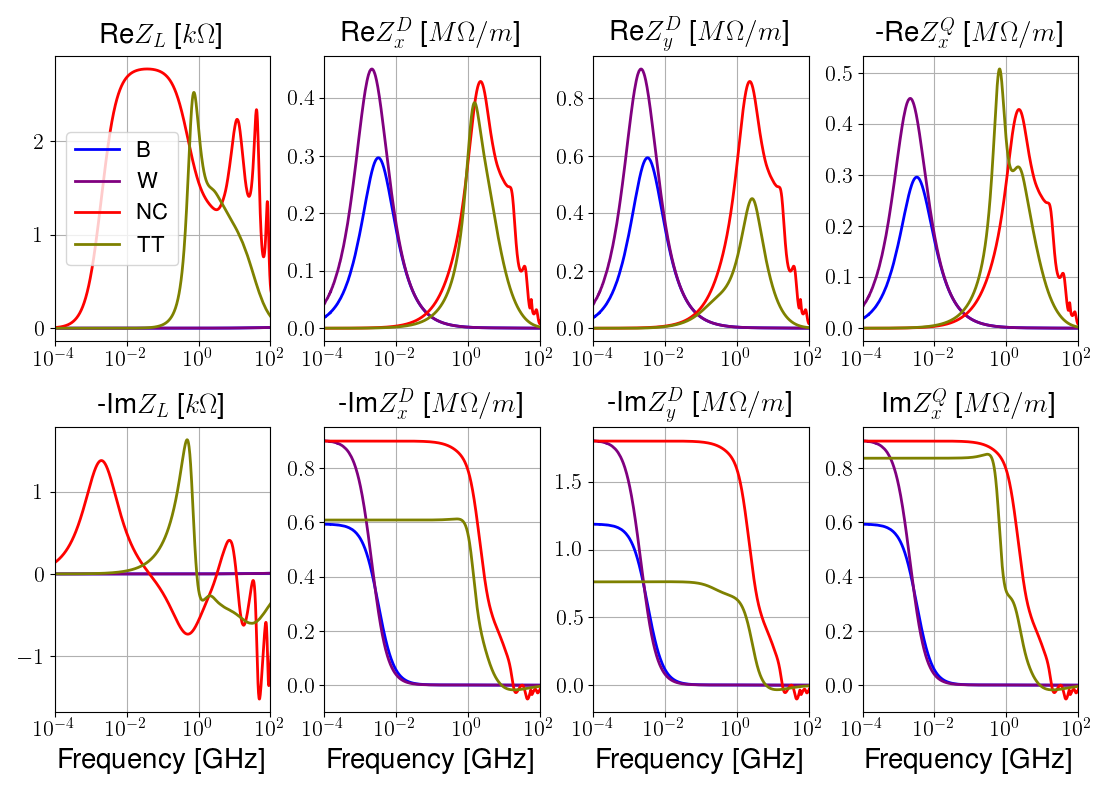
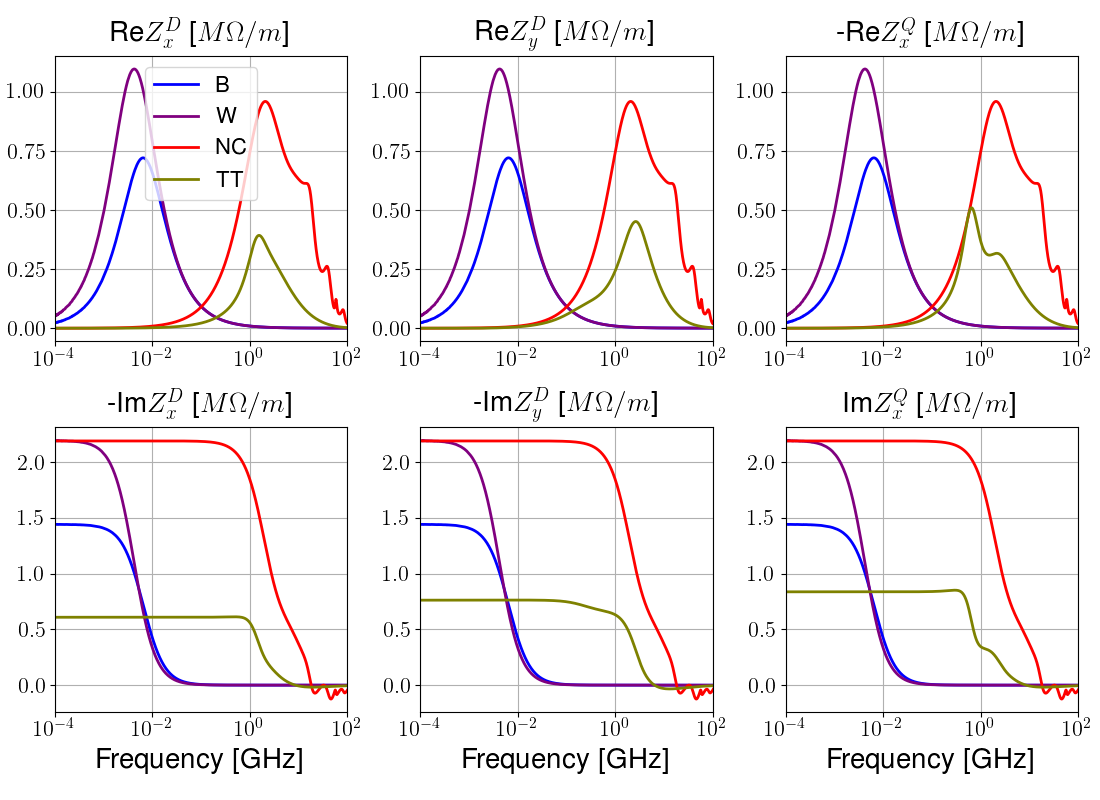
Finish kicker and fast chambers section.

diff --git a/tese.tex b/tese.tex
@@ -207,7 +207,7 @@
 
     One of the most important interaction for storage rings of light sources is the collision of particles, generally refered to as Coulomb scattering or intrabeam scattering, which is so unpredictable and chaotic that its effects on the beam resembles the properties of the emission of radiation, causing emittance and energy spread increase~\cite{Piwinski1974,Bjorken1983,Kubo2001}. Additionally, the collision process also leads to particle loss through a mechanism called Touscheck scattering, described in details by \citeonline{Piwinski1999}, where the transverse energy of oscillation is transfered to the longitudinal plane and the particles gain an energy deviation so large that they are lost. All these effects are very detrimental to new light sources, being the Touscheck lifetime their main source of particle loss, according to \citeonline{Nagaoka2014}.
 
-    The \gls{dsp} is another type of interaction among the particles, being the result of the action of the cloud of electromagnetic field existent inside the beam on individual particles. Each particle generates an electric and a magnetic field that, when averaged among all particles, result in a net potential dependent on the shape and sizes of the bunch. This potential acts like an external field on the movement of the particles, leading to tune-shifts with amplitude and possible excitation of resonances. However, for ultra-relativistic electron beams such as the ones of a light source storage ring, with energies of the order of a few \si{\giga\electronvolt}, this effect is very small and can be neglected. This happens because in this limit the non-radiating field generated by each particle is concentrated in a plane transverse to its movement and the electric and magnetic forces that act on other particles moving parallel to it cancel each other out. In Appendix~\ref{app:lorentz_cancel} a more detailed explanation for this property is given.
+    The \gls{dsp} is another type of interaction among the particles, being the result of the action of the cloud of electromagnetic field existent inside the beam on individual particles. Each particle generates an electric and a magnetic field that, when averaged among all particles, result in a net potential dependent on the shape and sizes of the bunch. This potential acts like an external field on the movement of the particles, leading to tune--shifts with amplitude and possible excitation of resonances. However, for ultra-relativistic electron beams such as the ones of a light source storage ring, with energies of the order of a few \si{\giga\electronvolt}, this effect is very small and can be neglected. This happens because in this limit the non-radiating field generated by each particle is concentrated in a plane transverse to its movement and the electric and magnetic forces that act on other particles moving parallel to it cancel each other out. In Appendix~\ref{app:lorentz_cancel} a more detailed explanation for this property is given.
 
     The \gls{csr} is another type of direct interaction between particles in a beam. The radiation emitted by the particles travels forward with the velocity of light and, due to the fact that the particles are moving on a curved trajectory when they emit light, this radiation catches up with the particles ahead of the emitting particle, as first described by \citeonline{Derbenev1995}. If the wavelength of the radiation is of the same order of or larger than the bunch length, the average of this effect is non-zero and the head of the bunch feels a net force. As this effect depends on the radiated field, in contrast to the \gls{dsp}, it does not tend to zero as the energy of the particles increases and can be very harmful, depending on the bunch length of the beam, causing energy spread increase and bunch lengthening or even microbunching~\cite{Bane2010}. However, this mechanism of interaction suffers from shielding of the vacuum chamber because, depending on the transverse separation of the walls, the low frequency radiation cannot propagate, which mitigates the effect~\cite{Murphy1997}.
 
@@ -488,7 +488,7 @@
 		\nu_x(\delta, J_x, J_y) \approx \nu_{x,0} + \xi_x \delta + A_{xx} J_x + A_{xy} J_y \\\nonumber
 		\nu_y(\delta, J_y, J_x) \approx \nu_{y,0} + \xi_y \delta + A_{yy} J_y + A_{yx} J_x
 	\end{align}
-	where $\xi_x$ and $\xi_y$ are the horizontal and vertical chromaticities, and $A_{xx}$, $A_{yy}$ and $A_{xy}=A_{yx}$ are the action dependent tune-shifts.
+	where $\xi_x$ and $\xi_y$ are the horizontal and vertical chromaticities, and $A_{xx}$, $A_{yy}$ and $A_{xy}=A_{yx}$ are the action dependent tune--shifts.
 
 \section{Longitudinal Dynamics}
 
@@ -792,9 +792,9 @@
 
     The vectors $\vect{M}_s$ and $\vect{M}_w$ are generally refered to as monopolar wakes, because they generate a transverse wake that is independent of the transverse displacement of the particles. The effect these wakes can cause on the beam are changes in the closed orbit as a function of the current of the ring which is a static effect and cannot lead to instabilities. In addition, for most practical cases these terms are zero due to symmetries in the vacuum chamber, as can be seen in appendix~\ref{app:symmetry_analysis}.
 
-    The terms of the tensor $\tensor{D}$ are refered to as dipole wakes, because they are generated due to dipole displacements of the source particle. Especifically the terms $D_{11}$ and $D_{22}$ are called horizontal and vertical dipole wakes, respectively. They are the responsible for all the transverse instabilities that leads to coupled oscillations of the bunches, emittance deterioration and even beam loss. Besides, they can also induce coherent tune-shifts, a concept that will be studied later. These terms are dangerous because they create a mechanism for the oscillations of the source particles to induce oscillations on the witness particle and this force is always resonant because both particles have approximately the same tune. The term $D_{12}=D_{21}$ is zero in most cases due to symmetries in the vacuum chamber, but even when it is non-zero it does not induce any significant effect on the beam because, as generally the fractionary part of the horizontal and vertical tunes are different, oscillations in one plane do not drive oscillations in the other.
+    The terms of the tensor $\tensor{D}$ are refered to as dipole wakes, because they are generated due to dipole displacements of the source particle. Especifically the terms $D_{11}$ and $D_{22}$ are called horizontal and vertical dipole wakes, respectively. They are the responsible for all the transverse instabilities that leads to coupled oscillations of the bunches, emittance deterioration and even beam loss. Besides, they can also induce coherent tune--shifts, a concept that will be studied later. These terms are dangerous because they create a mechanism for the oscillations of the source particles to induce oscillations on the witness particle and this force is always resonant because both particles have approximately the same tune. The term $D_{12}=D_{21}$ is zero in most cases due to symmetries in the vacuum chamber, but even when it is non-zero it does not induce any significant effect on the beam because, as generally the fractionary part of the horizontal and vertical tunes are different, oscillations in one plane do not drive oscillations in the other.
 
-    The coefficients $Q_{11}$ and $Q_{22}$ are called detuning or quadrupolar wakes because the force they induce has the same characteristics of a quadrupole. In the ultra-relativistic limit $Q_{11}=-Q_{22}$ which is the basic property of the quadrupole strengthes in the horizontal and vertical plane and, as expected from a quadrupole, they generate tune-shifts in the beam as a function of the current. The same analysis made for the coefficient $D_{12}$ applies for the term $Q_{12}$.
+    The coefficients $Q_{11}$ and $Q_{22}$ are called detuning or quadrupolar wakes because the force they induce has the same characteristics of a quadrupole. In the ultra-relativistic limit $Q_{11}=-Q_{22}$ which is the basic property of the quadrupole strengthes in the horizontal and vertical plane and, as expected from a quadrupole, they generate tune--shifts in the beam as a function of the current. The same analysis made for the coefficient $D_{12}$ applies for the term $Q_{12}$.
 
     As mentioned above, some componentes of the wake expansions are zero depending on the properties of the vacuum chamber. This is a consequence of the fact that the wake potential must preserve all the symmetries of the vacuum chamber\footnote{In appendix~\ref{app:symmetry_analysis} there is a demonstration of how the wake potential simplifies under the most common types of symmetries of the components of accelerators.}. For example, the standard vacuum chamber used in the Sirius storage ring is made of a round straight tube, which is a particular case of a cylindrical symmetry. For this type of symmetry all the components of $\vect{M}_s$, $\vect{M}_w$ and $\tensor{Q}$ must be zero and the only components of $\tensor{D}$ different from zero are the horizontal and vertical dipole wakes and they must be equal to each other. Thus we conclude that most of the resistive wall of the Sirius storage ring will not induce quadrupolar wakes nor any type of skew effect and that there will be no significant orbit distortions as a function of the current. Besides, considering that most of the components installed in the ring, such as bellows and \gls{bpms} only slightly break this symmetry, we can expect that the behavior of the beam in the horizontal and vertical plane will be very similar, where the differences will mostly be due to assymetries in the single particle dynamics.
 
@@ -1043,7 +1043,7 @@
 
     It is very recurrent in accelerators to have chambers that are composed of different laminar layers of materials. For example, the chambers of fast time-varying magnets, such as the injection kickers of a storage ring, must be made of a bad conductor, generally a ceramic. To avoid discontinuities in the path of the image current of the beam\footnote{This is equivalent to say: "to decrease the impedance of the beam".}, which could lead to excessive heating and consequent melting or burning of the magnet components and the accumulation of static charges in the ceramic, a thin layer of metal is deposited, coated, in the inner surface of the chamber. The thickness of the coating must be of a few microns: thin enough to not distort the external field as it penetrates the walls, which has frequencies of the order of hundreds of kilo Hertz, and thick enough to shield most of the frequencies of the beam, which extend to a few dozens of giga Hertz. Especifically for the kicker magnet, outside the ceramic vacuum chamber there is a layer of ferrite, which is used to guide the external field of the kicker. In the low frequency part of the spectrum, all these different layers of materials are seen by the self fields of the beam and contribute to the impedance.
 
-    Besides, the multi-layer chamber also appear in the simple case of a standard vacuum chamber of an accelerator, where the finite thickness of wall can be interpreted as a multi-layer chamber composed of metal and air. This finite thickness of the metal strongly influences the low frequency part of the impedance because the skin depth of the fields becomes much larger than the thickness of the chamber and the losses diminishe, which causes the real part of the impedance to go to zero and the imaginary part to a constant value as the frequency tends to zero, while the infinitely thick formula predicts that both impedances diverge to plus and minus infinity, respectively, when the same limit is taken. This low frequency of the resistive wall has a very narrow band nature and influences the long range wake fields, which are directly related to the coupled bunch resistive wall instability and the incoherent tune-shifts caused by chambers without circular symmetry, as explained by \citeonline{Chao2002}.
+    Besides, the multi-layer chamber also appear in the simple case of a standard vacuum chamber of an accelerator, where the finite thickness of wall can be interpreted as a multi-layer chamber composed of metal and air. This finite thickness of the metal strongly influences the low frequency part of the impedance because the skin depth of the fields becomes much larger than the thickness of the chamber and the losses diminishe, which causes the real part of the impedance to go to zero and the imaginary part to a constant value as the frequency tends to zero, while the infinitely thick formula predicts that both impedances diverge to plus and minus infinity, respectively, when the same limit is taken. This low frequency of the resistive wall has a very narrow band nature and influences the long range wake fields, which are directly related to the coupled bunch resistive wall instability and the incoherent tune--shifts caused by chambers without circular symmetry, as explained by \citeonline{Chao2002}.
 
     The multi-layer chambers problem was first tackled by \citeonline{Zotter1969}, who created an algorithm that solved the problem for an arbitrary number of layers of materials with arbitrary electric and magnetic properties, as long as they were linear, homogeneous and isotropic~\cite{Zotter1969,Zotter1969a,Zotter1970}. Even though his method was general enough to be applied to any azimuthal mode $m$ of the source, he only calculated the fields for the azimuthal modes $m=0$ and $m=1$\footnote{It is remarkable that his method goes beyond the rigid beam approximation, considering the source of the wake fields as an infinitely long beam oscilating in the transverse plane to calculate the mode $m=1$.}. This allowed him to derive explicit analytical formulas, under some approximations, for the longitudinal impedance of simplified configurations, such as a single wall with finite thickness, and a metallized ceramic chamber sorrounded by a \gls{pec}, where the author noticed the effectiveness of the coating in the inner wall was much higher than what is intuitively thought by comparing the thickness of the coating with the skin depth of the fields for a given frequency.
 
@@ -1075,7 +1075,7 @@
 
 \section{Sum of the Wakes}
 
-    With the theory developed so far it is formally possible to calculate the wake potential for all the structures of the ring and include their effects on the beam dynamics assuming the impulse approximation, which considers the variation of the particle momentum must be applied at the position in the ring equivalent to the center of the impedance source. However, a further approximation is usually done for the calculation of the effect of wake-fields in global parameters of the machine, such as tune-shifts, energy loss and even instabilities. This approximation considers all the impedances sources are located at a single point of ring, in other words, it neglects the phase advances between each wake source. This way the total longitudinal wake of a machine can be given by:
+    With the theory developed so far it is formally possible to calculate the wake potential for all the structures of the ring and include their effects on the beam dynamics assuming the impulse approximation, which considers the variation of the particle momentum must be applied at the position in the ring equivalent to the center of the impedance source. However, a further approximation is usually done for the calculation of the effect of wake-fields in global parameters of the machine, such as tune--shifts, energy loss and even instabilities. This approximation considers all the impedances sources are located at a single point of ring, in other words, it neglects the phase advances between each wake source. This way the total longitudinal wake of a machine can be given by:
     \begin{align}\label{eq:scaling_longitudinal}
         W'_0(z) = \sum_i \funcof{W'_0(z)}_i
     \end{align}
@@ -1134,9 +1134,9 @@
 
     Besides a shift of the synchronous phase, the wakes distort the potential well in the longitudinal plane, changing the
 
-\section{Tune-shifts}
-\subsection{Coherent Tune-shifts}
-\subsection{Incoherent Tune-shifts}
+\section{Tune--shifts}
+\subsection{Coherent Tune--shifts}
+\subsection{Incoherent Tune--shifts}
 \section{Instabilities}
 \subsection{Multi-Turn Instabilities}
 \subsection{Single-Turn Instabilities}
@@ -1164,8 +1164,8 @@
 % \subsubsection{Wire technique}
 % \subsubsection{Double wire technique}
 % \subsection{Beam Measument}
-% \subsubsection{Single-bunch Current Dependent Tune-shifts}
-% \subsubsection{Multi-bunch Current Dependent Tune-shifts}
+% \subsubsection{Single-bunch Current Dependent Tune--shifts}
+% \subsubsection{Multi-bunch Current Dependent Tune--shifts}
 % \subsubsection{Single-bunch Turn-by-Turn measurements}
 % \subsubsection{Orbit bump method}
 % \subsubsection{response matrix fitting}
@@ -1289,7 +1289,7 @@
 
     The first is the incoherent tune--shift induced by the quadrupolar impedance, which depends on the DC value of the impedance. This mechanism was introduced in subsection\ref{ssec:incoherent_tune_shift} and is quantitatively described by equation~\eqref{eq:incoherent_tune_shift}. Considering that the resistive--wall impedance has a very sharp peak at zero frequency, this term has strong influence on the whole sum that defines the tune--shifts, mainly for multi-bunch operations. Actually the infinitely thick wall theory, from \citeonline{Gluckstern1993} and \cite{Yokoya1993}, provides divergent results for this tune--shift. \citeonline{Nagaoka2001} solved this problem to explain measurements in ESRF using a method developed by \citeonline{Heifets1998} and detailed explained by \citeonline{Chao2002}, which employed the concept of the diffusion time of the magnetic field in the chamber to truncate the multi--turn effect of this impedance as a way of considering the finite thickness of the wall. Later, \citeonline{Shobuda2002} showed that such approach is not needed when the impedance already takes into account the finite thickness.
 
-    The impedance at very low frequencies is very difficult to calculate because it depends on what is outside the vacuum chamber, due to the increasingly large skin depth.~\citeonline{Shobuda2002} pointed this possibility out when they tried to explain the tune-shifts observed in KEKB with their finite--thick wall theory. With the multi--layer formulas used in this work it is possible to see the influence of materials outside the chamber on the impedance, as shown Figure~\ref{fig:wall_dipole_permeability},
+    The impedance at very low frequencies is very difficult to calculate because it depends on what is outside the vacuum chamber, due to the increasingly large skin depth.~\citeonline{Shobuda2002} pointed this possibility out when they tried to explain the tune--shifts observed in KEKB with their finite--thick wall theory. With the multi--layer formulas used in this work it is possible to see the influence of materials outside the chamber on the impedance, as shown Figure~\ref{fig:wall_dipole_permeability},
     \begin{figure}
         \centering
         \includegraphics[width=\textwidth]{wall_imp_permeability.png}
@@ -1300,18 +1300,42 @@
 
 \section{Kicker Chambers}
 
-    The Sirius storage ring will have two kicker magnets, one standard dipole kicker and one non-linear kicker. While the first will be used for on-axis injection in the commissioning of the light source and as a pinger magnet for machine studies, the second will be used for injection in top-up mode~\cite{Liu2016a}. Even though the topology of both magnets is very different, their vacuum chamber will be identical: a ceramic chamber, coated with \SI{10}{\micro\meter} of Titanium with an additional layer of \gls{neg} of \SI{1}{\micro\meter}, which means at high frequencies their impedance will be identical too. To demonstrate that the impedance on the region of interest for Sirius is dominated by the properties of the coating, a detailed study of the standard window-frame dipole kicker impedance was carried out and the results were extrapolated to the non-linear kicker. Below there is a description of such study.
+    The Sirius storage ring will have two kicker magnets, one standard dipole kicker and one non-linear kicker. While the first will be used for on-axis injection in the commissioning of the light source and as a pinger magnet for machine studies, the second will be used for injection in top-up mode~\cite{Liu2016a}. Even though the topology of both magnets is very different, their vacuum chamber will be identical: a ceramic chamber, coated with \SI{10}{\micro\meter} of Titanium, which means at high frequencies their impedance will be identical too. Below we describe the considerations on the modelling of the impedance of the dipole kicker magnet and than extrapolate to the case of the non-linear kicker. Table~\ref{tab:kicker_paramters}
+    \begin{table}[t]
+        \centering
+        \caption{Kicker main parameters}
+        \label{tab:kicker_paramters}
+        \begin{tabular}{lccc}
+            \toprule
+            Parameter                     & Symbol    & Value      & Unit \\
+            \midrule
+            Capacitance                   & $C_{bb}$  &  30.0      & \si{\pico\farad}\\
+            Parasitic Resistance          & $R_s$     &  500       & \si{\ohm}\\
+            Pulser circuit resistance     & $R_e$     &  50.0      & \si{\ohm}\\
+            Ferrite permittivity          &           & 12       & \\
+            Ferrite initial permeability  & $\mu_i$   &  1600      & \\
+            Ferrite saturation frequency  & $\omega_s$&  20.0      & \si{\mega\radian\per\second}\\
+            Ceramic permittivity          &           &  9.3      &\\
+            Titanium conductivity         &           & \SI{1.6e6}& \si{\mega\siemens\per\meter}\\
+            FeSi conductivity             &           & \SI{2e6}  & \si{\mega\siemens\per\meter}\\
+            FeSi permeability             &           & 40        & \\
+            \bottomrule
+        \end{tabular}
+    \end{table}
+    shows the main values of the parameters used to model these components.
 
-    Figure~\ref{fig:kicker_magnet} shows an schematic drawing of a transverse section of the window-frame dipole kicker magnet that will be used in Sirius storage ring.
-    \begin{figure}[t!]
+    Figure~\ref{fig:kicker_magnet}
+    \begin{figure}[bt]
         \centering
         \includegraphics[width=0.8\textwidth]{kicker_magnet.png}
         \caption{Kicker magnet}
         \label{fig:kicker_magnet}
     \end{figure}
-    According to~\citeonline{Nassibian1979} and also to~\citeonline{Davino2003}, there are two main contributions to the impedance of this type of magnet: the losses and resonances defined by the materials of the vacuum chamber and the window-frame itself and the coupled flux of the beam with the external circuit that feeds the magnet. While the first contribution dominates the high frequency part of the spectrum, the second is important to the low frequency impedance.
+    shows an schematic drawing of a transverse section of the window-frame dipole kicker magnet that will be used in Sirius storage ring. This type of magnet acts on the beam by the passage of a very strong pulsed current, generated by an external pulser circuit, on the lateral copper plates. This current induces a magnetic field around the plates that is guided by the ferrite to create an almost constant vertical field at the inner gap of the magnet. The copper plates located at the center of the magnet are important to increase the magnetic impedance for the field lines, forcing them to close the loop by the air gap and not around the ferrite blocks.
 
-    The coupled flux, first modeled by~\citeonline{Nassibian1979} and improved by~\citeonline{Davino2003} treats the window-frame as a transformer that couples the beam with the external circuit impedance, $Z_g(\omega)$, characterized by the impedance termination of the pulser circuit and the residual capacitances and resistances of the device, which can be accessed via twin wire measurements~\cite{Mostacci2016} of the opened and shorted circuits on the endplates, as explained by~\citeonline{Davino2003}. This model predicts impedances for the coupled flux given by
+    According to~\citeonline{Nassibian1979} and also to~\citeonline{Davino2003}, there are two main contributions to the impedance of this type of magnet: the losses and resonances defined by the materials of the vacuum chamber and the window-frame itself and the coupled flux of the beam with the external circuit that feeds the magnet. While the first contribution dominates the high frequency part of the spectrum, the second is important at low frequencies.
+
+    The coupled flux, first modeled by~\citeonline{Nassibian1979} and improved by~\citeonline{Davino2003}, treats the window-frame as a transformer that couples the beam with the external circuit impedance, $Z_g(\omega)$, characterized by the impedance termination of the pulser circuit and the residual capacitances and resistances of the device, which can be accessed via twin wire measurements~\cite{Mostacci2016} of the opened and shorted circuits on the endplates, as explained by~\citeonline{Davino2003}. This model predicts impedances for the coupled flux given by
     \begin{align}\label{eq:coupled_flux_impedance}
         Z_\parallel^* = \frac{\Delta^2}{h^2}\frac{i\omega L_2 Z_g}{i\omega L_2 + Z_g},
         \quad Z_X^D = \frac{c}{\omega\Delta^2}Z_\parallel
@@ -1324,68 +1348,84 @@
     \begin{align}
         \mu_r(\omega) = 1 + \frac{\mu_i}{1+i\frac{\omega}{\omega_s}}
     \end{align}
-    where $\mu_i$ is the initial permeability and $\omega_s$ is the saturation frequency of the material. In the case of Sirius, the ferrite that will be used in this magnet is the CMD5005~\cite{CeramicMagnets2017} and the $\mu_i$ and $\omega_s$ of the equation above were fitted to the datasheet curve and their values are shown in Table~\ref{tab:kicker_paramters}.
-    \begin{table}[t]
-        \centering
-        \caption{Kicker main parameters}
-        \begin{tabular}{lccc}
-            \toprule
-            Parameter                     & Symbol    & Value      & Unit \\
-            \midrule
-            Capacitance                   & $C_{bb}$  &  30.0      & \si{\pico\farad}\\
-            Parasitic Resistance          & $R_s$     &  500       & \si{\ohm}\\
-            Pulser circuit resistance     & $R_e$     &  50.0      & \si{\ohm}\\
-            Ferrite initial permeability  & $\mu_i$   &  1600      & \\
-            Ferrite saturation frequency  & $\omega_s$&  20.0      & \si{\mega\radian\per\second}\\
-            \bottomrule
-        \end{tabular}
-    \end{table}
+    where $\mu_i$ is the initial permeability and $\omega_s$ is the saturation frequency of the material. In the case of Sirius, the ferrite that will be used in this magnet is the CMD5005~\cite{CeramicMagnets2017} and the $\mu_i$ and $\omega_s$ of the equation above were obtained by fitting the datasheet curve. The values found agreed well with direct measurements made by~\citeonline{Hahn2002}.
 
-    Note in equation~\ref{eq:coupled_flux_impedance} that the coupled flux does not contributes to the vertical impedance and that for a well centered beam, $\Delta=0$ the longitudinal impedance is zero too.
-
-    Considering there is no measurements yet for the circuit impedance, $Z_g(\omega)$, of the kicker magnet, the parametric dependency described in the reference~\cite[eq. 11]{Davino2003}
+    Note in equation~\ref{eq:coupled_flux_impedance} that the coupled flux does not contributes to the vertical impedance and that for a well centered beam, $\Delta=0$ the longitudinal impedance is zero too. Considering there is no measurements yet for the circuit impedance, $Z_g(\omega)$, of the kicker magnet, the parametric dependency described by~\citeonline{Davino2003}
     \begin{align}
         Z_g(\omega) = R_e + \frac{1}{\frac{1}{R_s}+i\omega C_{bb}}
     \end{align}
     was considered for Sirius, where $C_{bb}$ is the busbar capacitance, equal to \SI{30}{\pico\farad} for their kicker, $R_s$ is a resistance in parallel with the capacitance to account for the ferrite losses, equals to \SI{490}{\ohm} in their case, and $R_e$ is the matching impedance of the external circuit, which we considered equal to \SI{50}{\ohm}. Figure~\ref{fig:coupled_flux_impedance}
-    \begin{figure}[b!]
+    \begin{figure}[t!]
         \centering
         \includegraphics[width=0.8\textwidth]{kicker_coupled_flux.png}
         \caption{Kicker magnet}
         \label{fig:coupled_flux_impedance}
     \end{figure}
-    shows the coupled flux horizontal impedance for some values of $C_bb$ and $R_s$, where it is possible to notice the resonant behaviour created by the parallel association of the inductance $L_2$ with the capacitance $C_{bb}$. The high frequency peaks,
+    shows the coupled flux horizontal impedance for some values of $C_{bb}$ and $R_s$, where it is possible to notice the resonant behaviour created by the parallel association of the inductance $L_2$ with the capacitance $C_{bb}$. Notice how these values influence the positioning, intensity and width of the resonant peaks, all around a few \si{\mega\hertz}, but do not change the value of the imaginary impedance at lower frequencies. As will be shown below, the Titanium coating in the vacuum chamber shields the electromagnetic fields of the beam starting from approximately the frequency range of these peaks, thus, it is expected they will be attenuated. However, the low frequency impedance will not, and will influence on the coupled-bunch motion. This source of impedance will not contribute to the incoherent tune--shifts because there is no quadrupolar impedance associated with this mechanism.
 
-    Regarding the uncoupled flux, there are no formulas in the literature, to the knowledge of the author, to estimate the impedance of an out-of-vacuum window-frame magnet as the one presented in Figure~\ref{fig:kicker_magnet}. There are, however, a model for an in-vacuum magnet developed by Tsutsui in references~\cite{Tsutsui2000,Tsutsui2000a,Salvant2010a} that solves \gls{maxeq} exactly for an ultra-relativistic beam, considering the approximate geometry of Figure~\ref{fig:tsutsui_model},
-    \begin{figure}[t!]
+    Regarding the uncoupled flux, there are no formulas in the literature to estimate the impedance of an out-of-vacuum window-frame magnet as the one presented in Figure~\ref{fig:kicker_magnet}. There is, however, a model for an in-vacuum magnet developed by~\citeonline{Tsutsui2000} for the longitudinal impedance, which was extended to the transverse dipole impedances by~\citeonline{Tsutsui2000a} and then to the quadrupolar impedance by \citeonline{Salvant2010a}. These formulas were derived by solving the \gls{maxeq} exactly for an ultra-relativistic beam, considering the geometry of Figure~\ref{fig:tsutsui_model},
+    \begin{figure}[b!]
         \centering
-        \includegraphics[width=0.5\textwidth]{tsutsui_model.png}
+        \includegraphics[width=0.6\textwidth]{tsutsui_model.png}
         \caption{Kicker magnet}
         \label{fig:tsutsui_model}
     \end{figure}
-    which is infinite in the longitudinal direction. Notice that this model keeps the proportion, $\theta$, of the fields that directly see a very good conductor, in this case approximated by a \gls{pec}, and the lossy material, the ferrite, in relation to the original model.
+    which is infinite in the longitudinal direction. Notice that this model keeps unchanged the proportion of the fields that directly see the ferrite, which is a lossy material, and the good conductor, being a good approximation of the geometry of the real magnet.
 
-    In order to estimate the effect of the vacuum chamber on the impedance, other models based on the round multi-layer formulas were developed. These models also tried to account for limiting cases of the Tsutsui geometry in relation to the angle $\theta$ that directly interact with a good conductor. Under this assumptions the models are
+    In order to estimate the effect of the vacuum chamber on the impedance, other models based on the round multi-layer formulas were analysed. The idea behind the formulation of these models is to try to account for limiting cases of the Tsutsui geometry in relation to the angle $\theta$, that defines the proportion of the fields that interact with a good conductor. Under these assumptions the models are:
     \begin{description}[align=left]
-        \item[Worst case:] The angle $\theta$ is zero, which means the beam only sees the ferrite. The layers of the round model in this case are composed by: vacuum, Titanium, ceramic, ferrite and Copper;
-        \item[Best case:] The angle $\theta$ is \si{\pi\over2}, which means the beam only sees the good conductor: vacuum, Titanium, ceramic, Copper;
-        \item[No Coating:] To evidenciate the effect of the Titanium coating, this layer was removed from the analysis of the worst case model: vacuum, ceramic, ferrite, and Copper.
+        \item[Worst case (W):] The angle $\theta$ is zero, which means the beam only sees the ferrite. The layers of the round model in this case are composed by: vacuum, Titanium, ceramic, air, ferrite and Copper;
+        \item[Best case (B):] The angle $\theta$ is \si{\pi\over2}, which means the beam only sees the good conductor: vacuum, Titanium, ceramic, air and Copper;
+        \item[No Coating (NC):] To show the effect of the Titanium coating, this layer was removed from the analysis of the worst case model: vacuum, ceramic, ferrite, air and Copper.
     \end{description}
-    Besides, considering the vacuum chamber is almost an ellipse with high excentricity, the yokoya factors were applied to the round impedace models. Even though this approximation was shown not to work for the low frequency part of the impedance in the tsutsui model~\cite{Salvant2010a}, it is valid for the part of the spectrum dominated by the coating. The impedance of these four models are shown in Figure~\ref{fig:uncoupled_flux_impedance} and the material properties considered in the calculation are shown in table~\ref{tab:material_properties_kicker_impedance}. {\huge to be continued ...}
-    \begin{figure}
+    Figure~\ref{fig:uncoupled_flux_impedance}
+    \begin{figure}[t]
         \centering
         \includegraphics[width=\textwidth]{kicker_comp_models.png}
         \caption{Effect permeability wall impedance}
-        \label{fig:neg_thick}
+        \label{fig:uncoupled_flux_impedance}
     \end{figure}
+    shows the transverse impedances of the four models analysed. Note that the W curve matches the low frequency limit of the NC case, but at approximately \SI{1}{\mega\hertz} the coating starts to affect the impedance, damping all of them to very low values. Besides, notice that the impedance predicted by the tsutsui model is even lower than the B case, and that the relations between the three of them cannot be described by the constant \citeonline{Yokoya1993} factors, a property already pointed out by \citeonline{Salvant2010a}. Considering that this component have a stronger influence on the total budget due to the low frequency limit of the impedance, the model adopted for the transverse plane was the W case, multiplied by constant factors that matches its impedance to the tsutsui model.
 
-    For these reasons the
+    For the longitudinal plane it is well--known from the works of \citeonline{Zotter1969} and \citeonline{Piwinski1977} that the coating influences the impedance at much lower frequencies than the skin depth of the metal. For this reason we varied the thickness of the Titanium layer in our simulations to check if it could be thinner than the nominal value, as shown in Figure~\ref{fig:kicker_comp_models_long}.
+    \begin{figure}[t]
+        \centering
+        \includegraphics[width=0.8\textwidth]{kicker_comp_models_long.png}
+        \caption{Effect permeability wall impedance}
+        \label{fig:kicker_comp_models_long}
+    \end{figure}
+    Note that coatings as thin as \SI{2}{\micro\meter} would not compromise the impedance of this element in neither of the planes.
+
+    Based on this study, we defined the impedance of the non-linear kicker as a round multi--layer chamber with: vacuum, Titanium, ceramic, air, FeSi and Copper. Besides the substitution of the ferrite with the FeSi as the magnet core, this component does not have the parallel copper plates to induce a dipole kick on the beam, creating a much more complex transverse field dependence using copper wires displaced transversely. Figure~\ref{fig:non_linear_kicker}
+    \begin{figure}[t]
+        \centering
+        \includegraphics[width=0.6\textwidth]{MPP.pdf}
+        \caption{Effect permeability wall impedance}
+        \label{fig:non_linear_kicker}
+    \end{figure}
+    shows an old version of this magnet. Such property makes the use of the \citeauthor{Tsutsui2000} model unapropriate for this case, and instead of multiplying the resultant impedance of the round chamber by the same factors of the dipole kicker, we decided to use the \citeauthor{Yokoya1993} factors. This magnet also does not have the coupled flux part of the impedance, because the external circuit does not couples with a bem close to the center of the magnet.
 
 \section{Fast Correctors Chambers}
 
-    The Fast orbit correctors of the Sirius storage ring will operate at a update rate of \SI{100}{\kilo\hertz} in the \gls{fofb}~\cite{Tavares2016}, requiring special vacuum chambers in order for such high frequency fields to penetrate. The solution adopted was to brase small and thin stainless steel chambers in the otherwise copper chamber of the ring. The reduced conductance, only \SI{1}{\mega\siemens}, of this material provides a skin depth of \SI{1.6}{\milli\meter} at \SI{100}{\kilo\hertz}, which is much larger than the thickness of the chamber, which is \SI{0.1}{\milli\meter} and do not damp or distort significantly the external field of the magnet.
+    The Fast orbit correctors of the Sirius storage ring will operate at a update rate of \SI{100}{\kilo\hertz} in the \gls{fofb}~\cite{Tavares2013}, requiring special vacuum chambers in order for such high frequency fields to penetrate. The solution adopted was to brase small and thin stainless steel chambers in the otherwise copper chamber of the ring. The reduced conductance, only \SI{1}{\mega\siemens}, of this material provides a skin depth of \SI{1.6}{\milli\meter} at \SI{100}{\kilo\hertz}, which is much larger than the thickness of the chamber, which is \SI{0.1}{\milli\meter} and do not damp or distort significantly the external field of the magnet.
 
-    The small length of these chambers, only~\SI{10}{\centi\meter}, raises a question on the validity of the infinitely long formulas of the multi-layer chambers used so far. This question is answered by Shobuda and Chin~\cite{Shoduba2009}, who calculate the impedance of a finite resistive insert of finite thickness on a otherwise perfectly conducting and infinitely long round chamber. The authors conclude that even for chambers with length smaller than its radius, with a thickness of the order of \SI{100}{\micro\meter} the impedance of the insert was already equal to the infinitely long chamber counterpart. This results shows that the use of the multi-layer formulas employed so far for the other components are still valid for the fast correctors chambers. Considering this, the relevant parameters used for the modelling of this type of chamber is presented in Table~\ref{tab:fast_correctors_chamber_parameters}.
+    The small length of these chambers, only~\SI{10}{\centi\meter}, raises a question on the validity of the infinitely long formulas of the multi-layer chambers used so far. This question is answered by~\citeonline{Shoduba2009}, who calculate the impedance of a finite resistive insert of finite thickness on a otherwise perfectly conducting and infinitely long round chamber. The authors conclude that even for an insert whose length is smaller than its radius, if the thickness is of the order of \SI{100}{\micro\meter}, the impedance is already equal to the infinitely long chamber counterpart. This result shows that the use of the multi-layer formulas employed so far for the other components are still valid for the fast correctors chambers. Considering this, the relevant parameters used for the modelling of this type of chamber is presented in Table~\ref{tab:fast_correctors_chamber_parameters}.
+    \begin{table}[t]
+        \centering
+        \caption{Kicker main parameters}
+        \label{tab:kicker_paramters}
+        \begin{tabular}{lccc}
+            \toprule
+            Parameter            & Value      & Unit \\
+            \midrule
+            SS conductivity      & 1.3  & \si{\mega\siemens\per\meter}\\
+            Chamber thickness    & 100  & \si{\micro\meter}\\
+            Chamber radius       & 12   & \si{\milli\meter}\\
+            Chamber length       & 100  & \si{\milli\meter}\\
+            Number of elements   &  80  & \\
+            \bottomrule
+        \end{tabular}
+    \end{table}
 
 \section{Undulators Chambers}
 
@@ -1398,12 +1438,12 @@
 \section{BC Chamber}
 
     The BC chamber is shown in Figure~\ref{fig:bc_chamber_figure}
-    \begin{figure}
-        \centering
-        \includegraphics[width=\textwidth]{kicker_comp_models.png}
-        \caption{Effect permeability wall impedance}
-        \label{fig:neg_thick}
-    \end{figure}
+    % \begin{figure}
+    %     \centering
+    %     \includegraphics[width=\textwidth]{kicker_comp_models.png}
+    %     \caption{Effect permeability wall impedance}
+    %     \label{fig:neg_thick}
+    % \end{figure}
 
 
 \section{RF Cavity taper}
@@ -1428,13 +1468,13 @@
 \chapter{Simulations and Instabilities Thresholds}
 \section{Frequency Domain Calculations}
 \subsection{Vertical Plane}
-\subsubsection{Single-bunch Tune-Shifts}
-\subsubsection{Multi-bunch Tune-Shifts}
+\subsubsection{Single-bunch Tune--Shifts}
+\subsubsection{Multi-bunch Tune--Shifts}
 \subsubsection{Coupled-Bunch Instabilities}
 \subsubsection{Single-Bunch Instabilities}
 \subsection{Horizontal Plane}
-\subsubsection{Single-bunch Tune-Shifts}
-\subsubsection{Multi-bunch Tune-Shifts}
+\subsubsection{Single-bunch Tune--Shifts}
+\subsubsection{Multi-bunch Tune--Shifts}
 \subsubsection{Coupled-Bunch Instabilities}
 \subsubsection{Single-Bunch Instabilities}
 \subsection{Longitudinal Plane}
@@ -1827,7 +1867,7 @@
 
 
 
-    Due to their importance, some components of the $D$ tensor have a name: the $D_{31}$ and $D_{42}$ are called dipolar wakes; and $D_{33}$ and $D_{44}$ are the quadrupolar wakes. While the first generates coherent tune-shifts and instabilities, the later is the responsible for incoherent tune-shifts of the beam. The other terms are the skew components, which are zero for most practical cases, as we will see below.
+    Due to their importance, some components of the $D$ tensor have a name: the $D_{31}$ and $D_{42}$ are called dipolar wakes; and $D_{33}$ and $D_{44}$ are the quadrupolar wakes. While the first generates coherent tune--shifts and instabilities, the later is the responsible for incoherent tune--shifts of the beam. The other terms are the skew components, which are zero for most practical cases, as we will see below.
 
     When the geometry has symmetry the number of independent compononts in $M$, $D$ and $Q$ are reduced even more.
     When the symmetry occurs in one plane, the number of independent components is two, five and eight, respectivelly.Below we list examples for the most practical cases:
